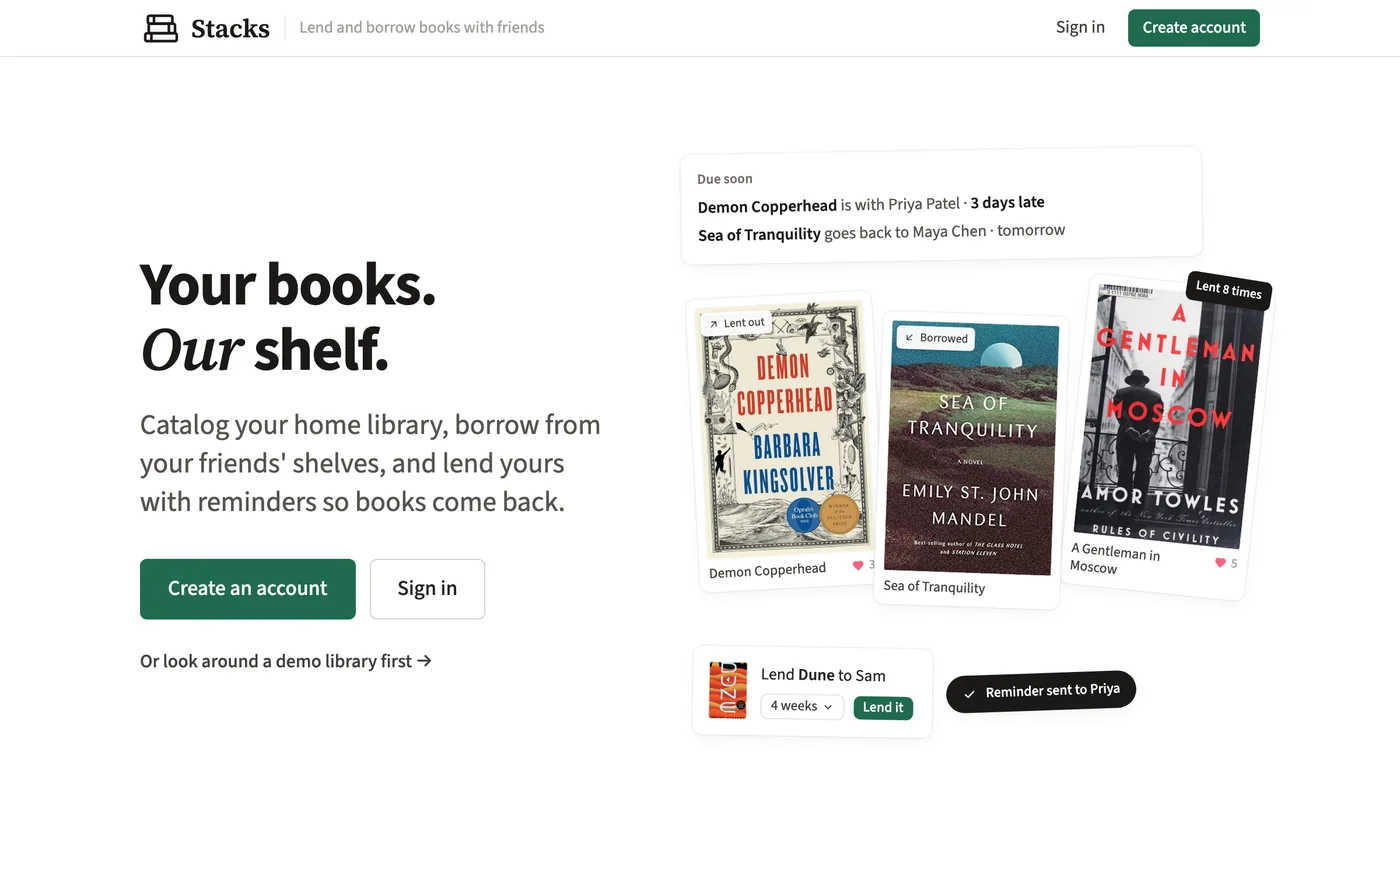
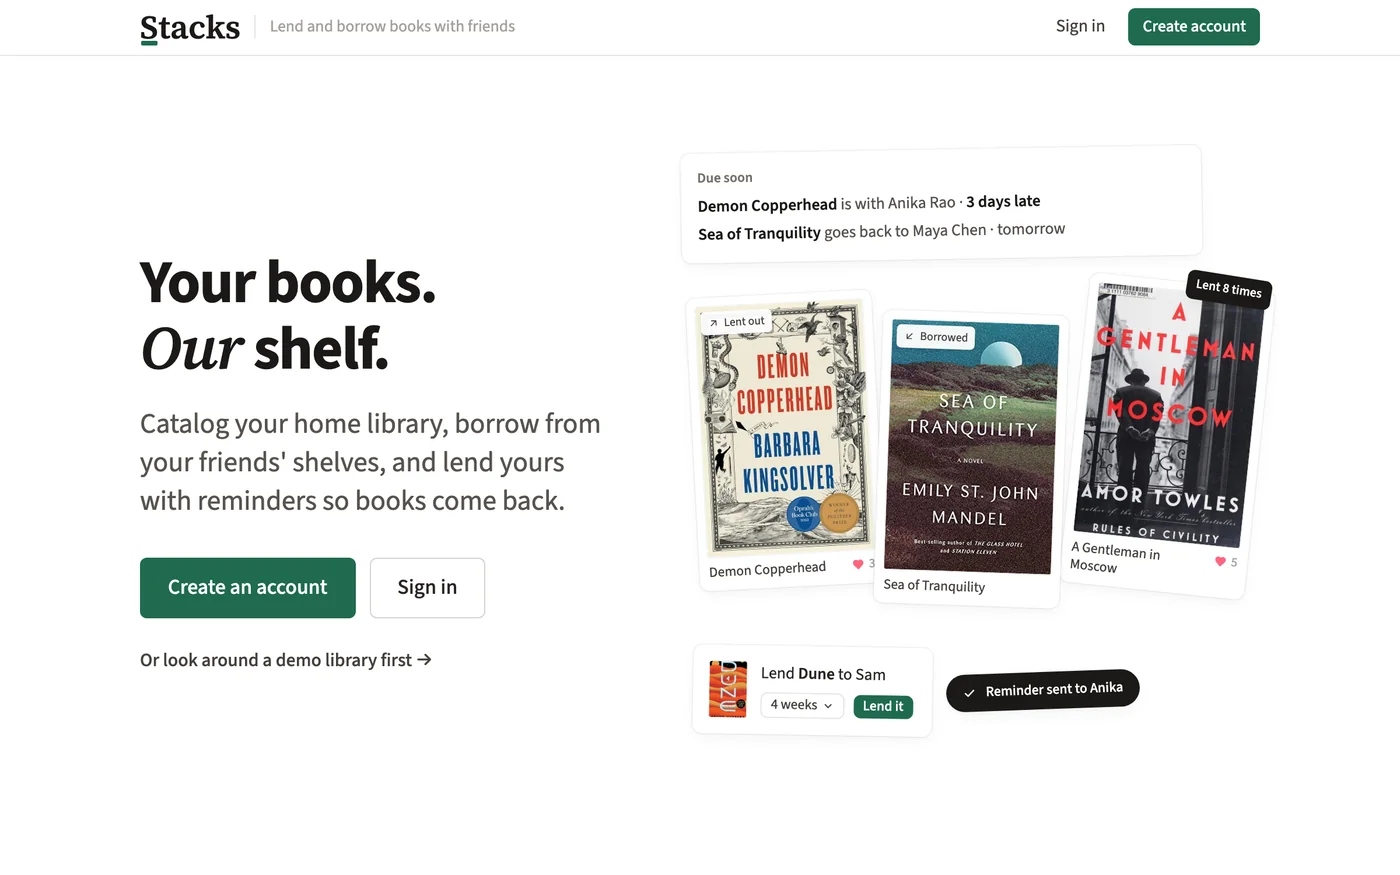
Stacks case study: landing page recaptured
The live landing page now shows the new wordmark and Anika Rao in place of Priya Patel.

diff --git a/content/Stacks.md b/content/Stacks.md
@@ -7,7 +7,7 @@ A lending library for the books you and your friends own: see who has what, borr
 **My role:** sole designer and developer, from the data model to the emails. **Built:** 2023, rebuilt and extended in 2026. **Stack:** Remix, React, TypeScript, Prisma, SQLite, Tailwind CSS, Fly.io.
 
 <figure class="case-figure">
-<img src="/screenshots/case-studies/stacks-landing.webp" width="1400" height="875" decoding="async" alt="Stacks' landing page: the headline Your books. Our shelf., a line about cataloging your home library, borrowing from friends' shelves and lending with reminders, buttons to create an account or sign in, and a link to a demo library, beside a collage of a due-soon card, covers tagged Lent out and Borrowed, a control to lend Dune to Sam for 4 weeks, and a Reminder sent to Priya notice">
+<img src="/screenshots/case-studies/stacks-landing.webp" width="1400" height="875" decoding="async" alt="Stacks' landing page: the headline Your books. Our shelf., a line about cataloging your home library, borrowing from friends' shelves and lending with reminders, buttons to create an account or sign in, and a link to a demo library, beside a collage of a due-soon card, covers tagged Lent out and Borrowed, a control to lend Dune to Sam for 4 weeks, and a Reminder sent to Anika notice">
 <figcaption>The landing page: what Stacks is for in one line, with sign-up and the demo a click away.</figcaption>
 </figure>
 
